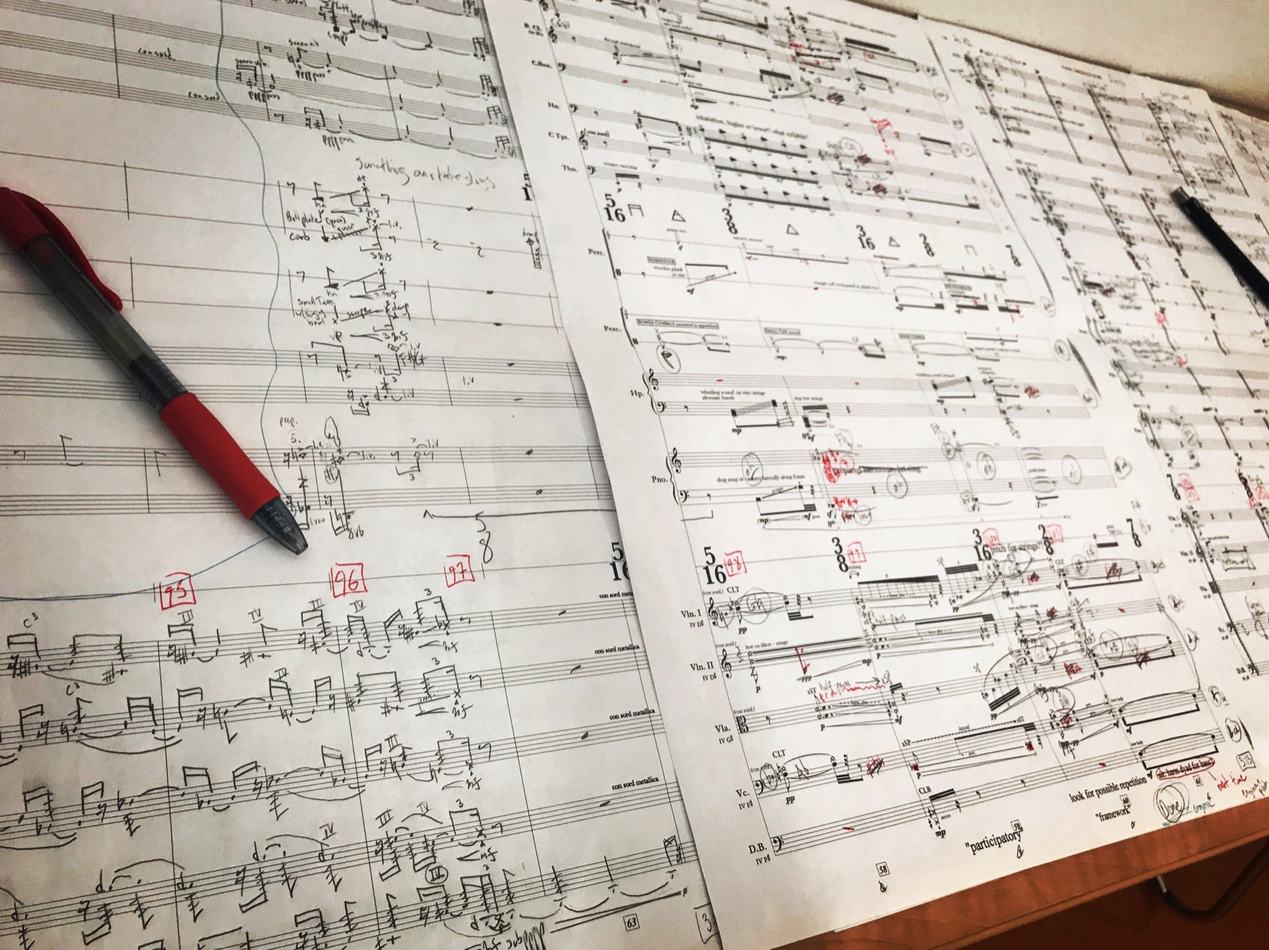
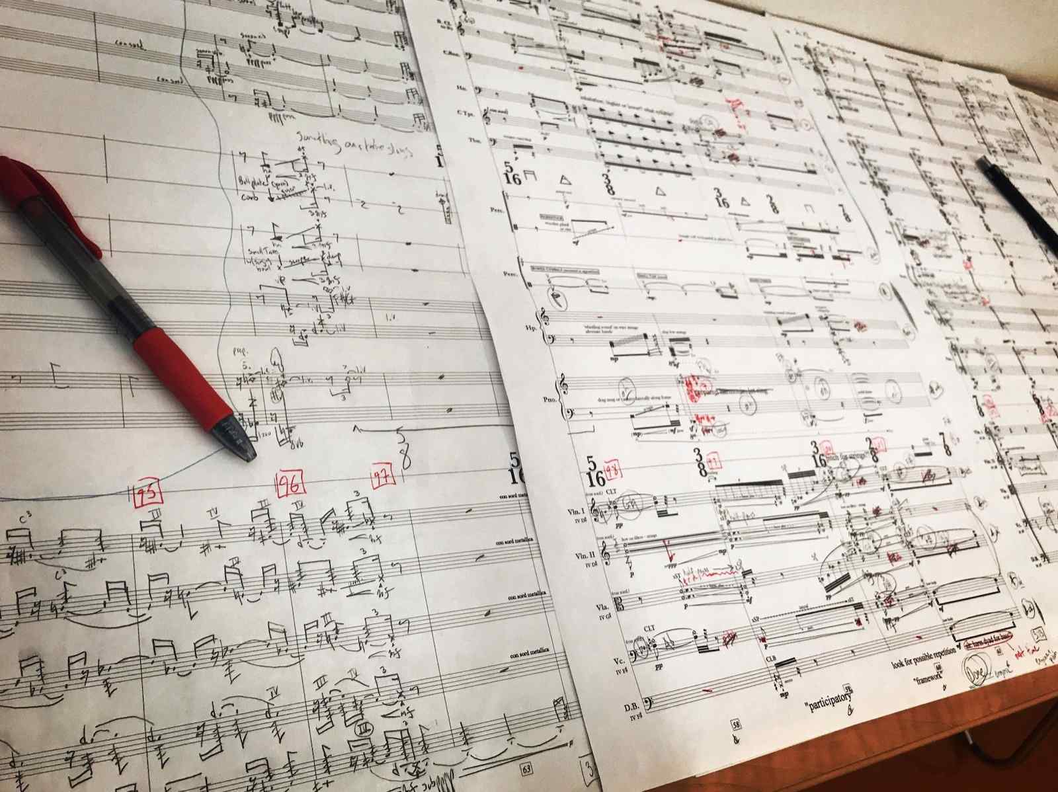
manuscript thumbs for faster loading

diff --git a/_includes/manuscripts.html b/_includes/manuscripts.html
@@ -4,13 +4,13 @@
 <center>
 <div class="row full-width" width="80%" height="30vh">
   <div class="col-sm-5 mx-auto" align="left"><figure class="figure">
-    <a data-fancybox data-type="iframe" href="{{ site.images }}/auto-add/featured/2014/2014-double-concerto-horn-partials-close-manuscript.jpg" target="_blank" class="figure-img img-fluid"><div class="row"><img src="{{ site.images }}/auto-add/featured/2014/2014-double-concerto-horn-partials-close-manuscript.jpg" class="rounded media-left img-fluid" alt=""></div></a>
+    <a data-fancybox data-type="iframe" href="{{ site.images }}/auto-add/featured/2014/2014-double-concerto-horn-partials-close-manuscript.jpg" target="_blank" class="figure-img img-fluid"><div class="row"><img src="{{ site.images }}/manuscript-thumbs/2014-double-concerto-horn-partials-close-manuscript.jpg" class="rounded media-left img-fluid" alt=""></div></a>
       <figcaption class="figure-caption text-center">Precompositional work on <em>Double Concerto</em> (2014)</figcaption>
     </figure></div>
    <div class="col-sm-1 mx-auto" align="center">&nbsp;&nbsp;</div>
     <div class="col-sm-5 mx-auto" align="right">
     <figure class="figure">
-      <a data-fancybox data-type="iframe" href="{{ site.images }}/auto-add/featured/2015/2015-walkside-score-gaudeamus-manuscript.jpg" target="_blank" class="figure-img img-fluid"><div class="row"><img src="{{ site.images }}/auto-add/featured/2015/2015-walkside-score-gaudeamus-manuscript.jpg" class="rounded media-left img-fluid" alt=""></div></a>
+      <a data-fancybox data-type="iframe" href="{{ site.images }}/auto-add/featured/2015/2015-walkside-score-gaudeamus-manuscript.jpg" target="_blank" class="figure-img img-fluid"><div class="row"><img src="{{ site.images }}/manuscript-thumbs/2015-walkside-score-gaudeamus-manuscript.jpg" class="rounded media-left img-fluid" alt=""></div></a>
       <figcaption class="figure-caption text-center">Sketch for <em>walkside, lost</em> (2015)</figcaption>
     </figure></div></div>
 <br style="line-height:1px">
@@ -21,7 +21,7 @@
 <div class="col-sm-6 nopadding mx-auto" align="center">
 <figure class="figure">
 
-      <a data-fancybox data-type="iframe" href="{{ site.images }}/auto-add/featured/2015/2015-pulp-sketch-2000px-manuscript.jpg" target="_blank" class="figure-img img-fluid"><div class="row"><img src="{{ site.images }}/auto-add/featured/2015/2015-pulp-sketch-2000px-manuscript.jpg" class="rounded media-left img-fluid" alt=""></div></a>
+      <a data-fancybox data-type="iframe" href="{{ site.images }}/auto-add/featured/2015/2015-pulp-sketch-2000px-manuscript.jpg" target="_blank" class="figure-img img-fluid"><div class="row"><img src="{{ site.images }}/manuscript-thumbs/2015-pulp-sketch-2000px-manuscript.jpg" class="rounded media-left img-fluid" alt=""></div></a>
       <figcaption class="figure-caption text-center">Sketches for <em>pulp</em> (2015)</figcaption>
     </figure></div>
     <br style="line-height:1px">
@@ -29,13 +29,13 @@
 <center>
 <div class="row full-width" width="90%" height="30vh">
   <div class="col-sm-5 mx-auto" align="left"><figure class="figure">
-    <a data-fancybox data-type="iframe" href="{{ site.images }}/auto-add/featured/2017/2017-panic-annotations-2-sketches-manuscript.jpg" target="_blank" class="figure-img img-fluid"><div class="row"><img src="{{ site.images }}/auto-add/featured/2017/2017-panic-annotations-2-sketches-manuscript.jpg" class="rounded media-left img-fluid" alt=""></div></a>
+    <a data-fancybox data-type="iframe" href="{{ site.images }}/auto-add/featured/2017/2017-panic-annotations-2-sketches-manuscript.jpg" target="_blank" class="figure-img img-fluid"><div class="row"><img src="{{ site.images }}/manuscript-thumbs/2017-panic-annotations-2-sketches-manuscript.jpg" class="rounded media-left img-fluid" alt=""></div></a>
       <figcaption class="figure-caption text-center">Final sketches for <em>Panic Architecture</em> (2017)</figcaption>
     </figure></div>
 <div class="col-sm-1 mx-auto" align="center">&nbsp;&nbsp;</div>
     <div class="col-sm-5 mx-auto" align="right">
     <figure class="figure">
-      <a data-fancybox data-type="iframe" href="{{ site.images }}/auto-add/featured/2017/2017-actor-network-theory-sketches-manuscript.jpg" target="_blank" class="figure-img img-fluid"><div class="row"><img src="{{ site.images }}/auto-add/featured/2017/2017-actor-network-theory-sketches-manuscript.jpg" class="rounded media-left img-fluid" alt=""></div></a>
+      <a data-fancybox data-type="iframe" href="{{ site.images }}/auto-add/featured/2017/2017-actor-network-theory-sketches-manuscript.jpg" target="_blank" class="figure-img img-fluid"><div class="row"><img src="{{ site.images }}/manuscript-thumbs/2017-actor-network-theory-sketches-manuscript.jpg" class="rounded media-left img-fluid" alt=""></div></a>
       <figcaption class="figure-caption text-center">Sketches for <em>Actor Network Theory</em> (2017)</figcaption>
     </figure></div></div>
 <br style="line-height:1px">
@@ -45,7 +45,7 @@
   <center>
   <div class="col-sm-10 nopadding mx-auto" align="center">
     <figure class="figure">
-      <a data-fancybox data-type="iframe" href="{{ site.images }}/auto-add/featured/2019/2019-all-forgetting-taceti-tnmas-sketches-manuscript.jpg" target="_blank" class="figure-img img-fluid"><div class="row"><img src="{{ site.images }}/auto-add/featured/2019/2019-all-forgetting-taceti-tnmas-sketches-manuscript.jpg" class="rounded media-left img-fluid" alt=""></div></a>
+      <a data-fancybox data-type="iframe" href="{{ site.images }}/auto-add/featured/2019/2019-all-forgetting-taceti-tnmas-sketches-manuscript.jpg" target="_blank" class="figure-img img-fluid"><div class="row"><img src="{{ site.images }}/manuscript-thumbs/2019-all-forgetting-taceti-tnmas-sketches-manuscript.jpg" class="rounded media-left img-fluid" alt=""></div></a>
 <!--        <img src="{{ site.images }}/auto-add/featured/2019/2019-all-forgetting-taceti-tnmas-sketches-manuscript-opt.jpg" class="figure-img img-fluid">   -->
       <figcaption class="figure-caption text-center">Sketches for <em>all-forgetting-is-retrieval</em> (2019)</figcaption>
     </figure>

diff --git a/_posts/concerts-without-my-music/2013/2013-04-08-marchenbilder-musica-nova.md b/_posts/concerts-without-my-music/2013/2013-04-08-marchenbilder-musica-nova.md
@@ -20,4 +20,4 @@ tags:
   - musica nova
   - conducting
 ---
-<!-- still need images --> 
+<!-- still need images -->
